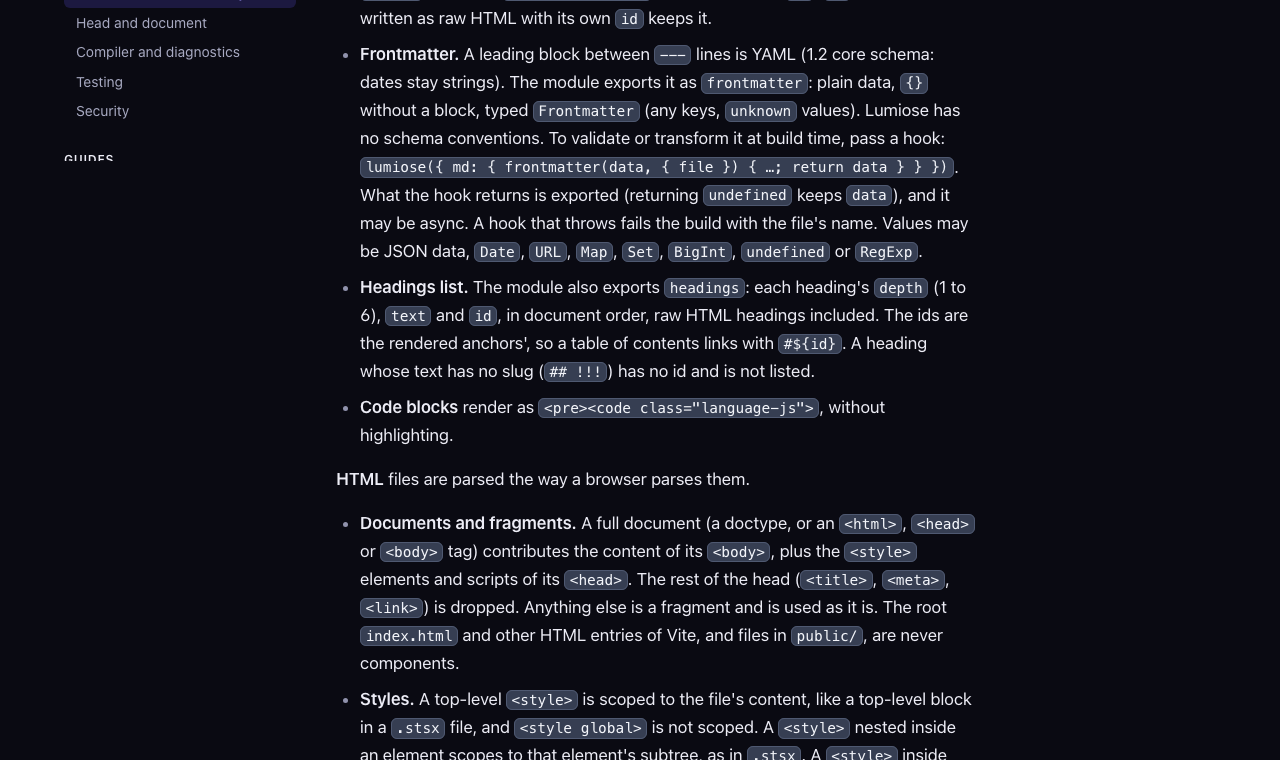
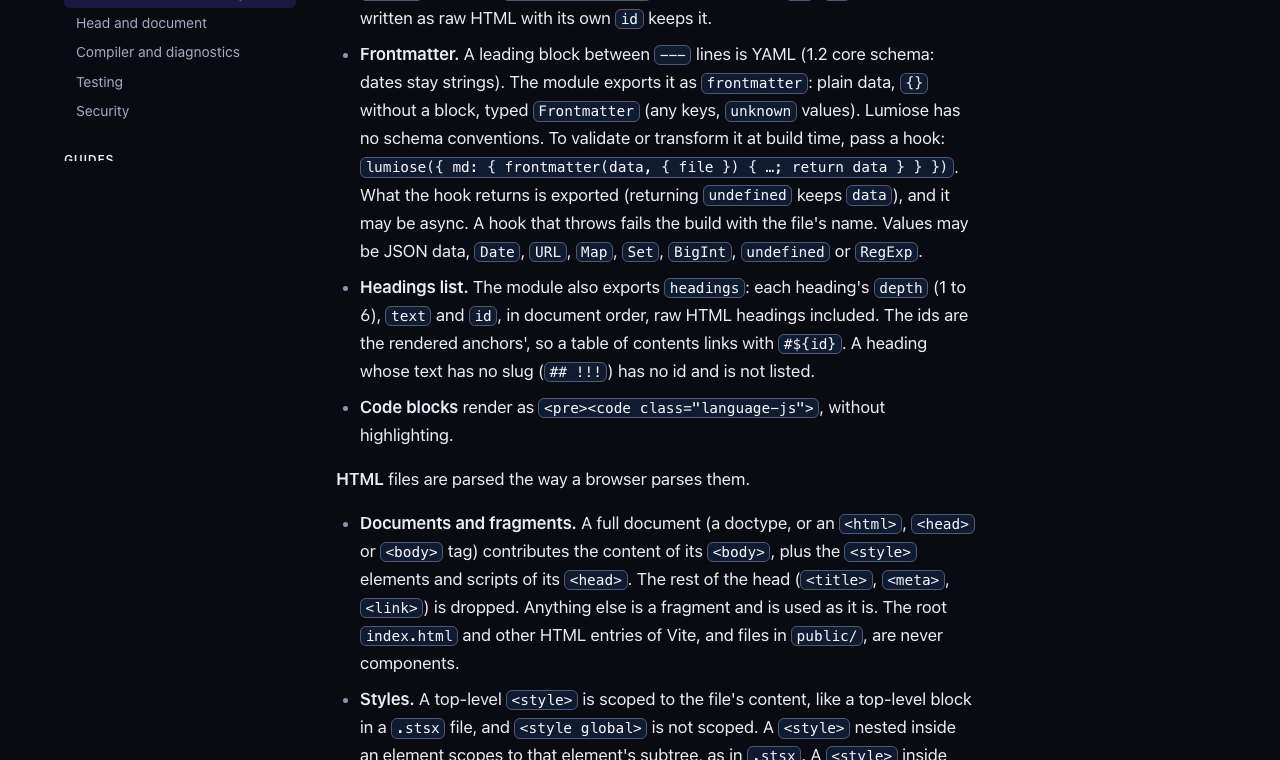
style(site-kit): inline code on the info background, slate text and border (TASK-274)

diff --git a/packages/site-kit/src/tokens.ts b/packages/site-kit/src/tokens.ts
@@ -24,7 +24,6 @@ export const light = {
   codeBg: "#f5f5fa",
   codeFg: "#1d1d2c",
   inlineCodeFg: "#161d2b",
-  inlineCodeBg: "#dce1ea",
   inlineCodeBorder: "#bcc4d2",
   infoFg: "#0a58a6",
   infoBg: "#edf4ff",
@@ -67,7 +66,6 @@ export const dark = {
   codeBg: "#10101a",
   codeFg: "#e3e3f0",
   inlineCodeFg: "#f3f5fa",
-  inlineCodeBg: "#363e52",
   inlineCodeBorder: "#4f5971",
   infoFg: "#8fc3ff",
   infoBg: "#0e1b31",
@@ -113,7 +111,7 @@ export const color = {
   shadow: "var(--lm-shadow)",
   codeBg: "var(--lm-code-bg)",
   codeFg: "var(--lm-code-fg)",
-  /** Inline code in running text: a neutral slate chip that stands out from the page. */
+  /** Inline code in running text: a slate chip on the info background, apart from body text. */
   inlineCodeFg: "var(--lm-inline-code-fg)",
   inlineCodeBg: "var(--lm-inline-code-bg)",
   inlineCodeBorder: "var(--lm-inline-code-border)",

diff --git a/backlog/tasks/task-274 - Docs-readability-short-page-summaries-noticeable-inline-code.md b/backlog/tasks/task-274 - Docs-readability-short-page-summaries-noticeable-inline-code.md
@@ -5,7 +5,7 @@ status: Done
 assignee:
   - Lux
 created_date: '2026-10-14 00:14'
-updated_date: '2026-10-14 00:29'
+updated_date: '2026-10-14 00:40'
 labels: []
 dependencies: []
 ordinal: 276000
@@ -28,4 +28,6 @@ User request 2026-10-14 (screenshots of concepts/content): page subtitles are lo
 
 <!-- SECTION:NOTES:BEGIN -->
 Lux: 50 page summaries rewritten as one plain sentence (<=150 chars, <=2 code spans; the docs index keeps the TASK-212 positioning line, errors index and getting-started were already short); they are also the meta description, search entries and lumiose docs listings. Inline code: new site-kit tokens inlineCodeFg/Bg/Border; after the user's feedback the amber tint became a neutral slate chip at about GitHub's strength (dark chip/page 1.85, text/chip 9.8:1; light text/chip 12.9:1), 0.85em, box-decoration-break: clone, code in links takes the link colour. Docs page: lead without chips (code font only), prose 1.0625rem in a 46rem column (~75 ch), list items spaced like paragraphs, muted markers. Also fixed (user report): BarChart's 4px minimum made Lumiose's 0 kB bar a sliver while Astro's 0 was empty. Checks: apps/web + cli docs + site-kit tests (50), lumiose check for web and site-kit, docs:check, oxlint, oxfmt, a11y e2e suite 31/31 after each colour change. Screenshots: ![before](../assets/task-274-docs-before-top-dark.png) ![before list](../assets/task-274-docs-before-list-dark.png) ![after](../assets/task-274-docs-after-top-dark.png) ![after list](../assets/task-274-docs-after-list-dark.png) ![after light](../assets/task-274-docs-after-list-light.png)
+
+Lux (follow-up, user feedback): inline code background is the info background (--lm-info-bg), with the slate text and border kept (text/chip 15:1 in both themes). a11y e2e 31/31; after-screenshots in backlog/assets updated.
 <!-- SECTION:NOTES:END -->
